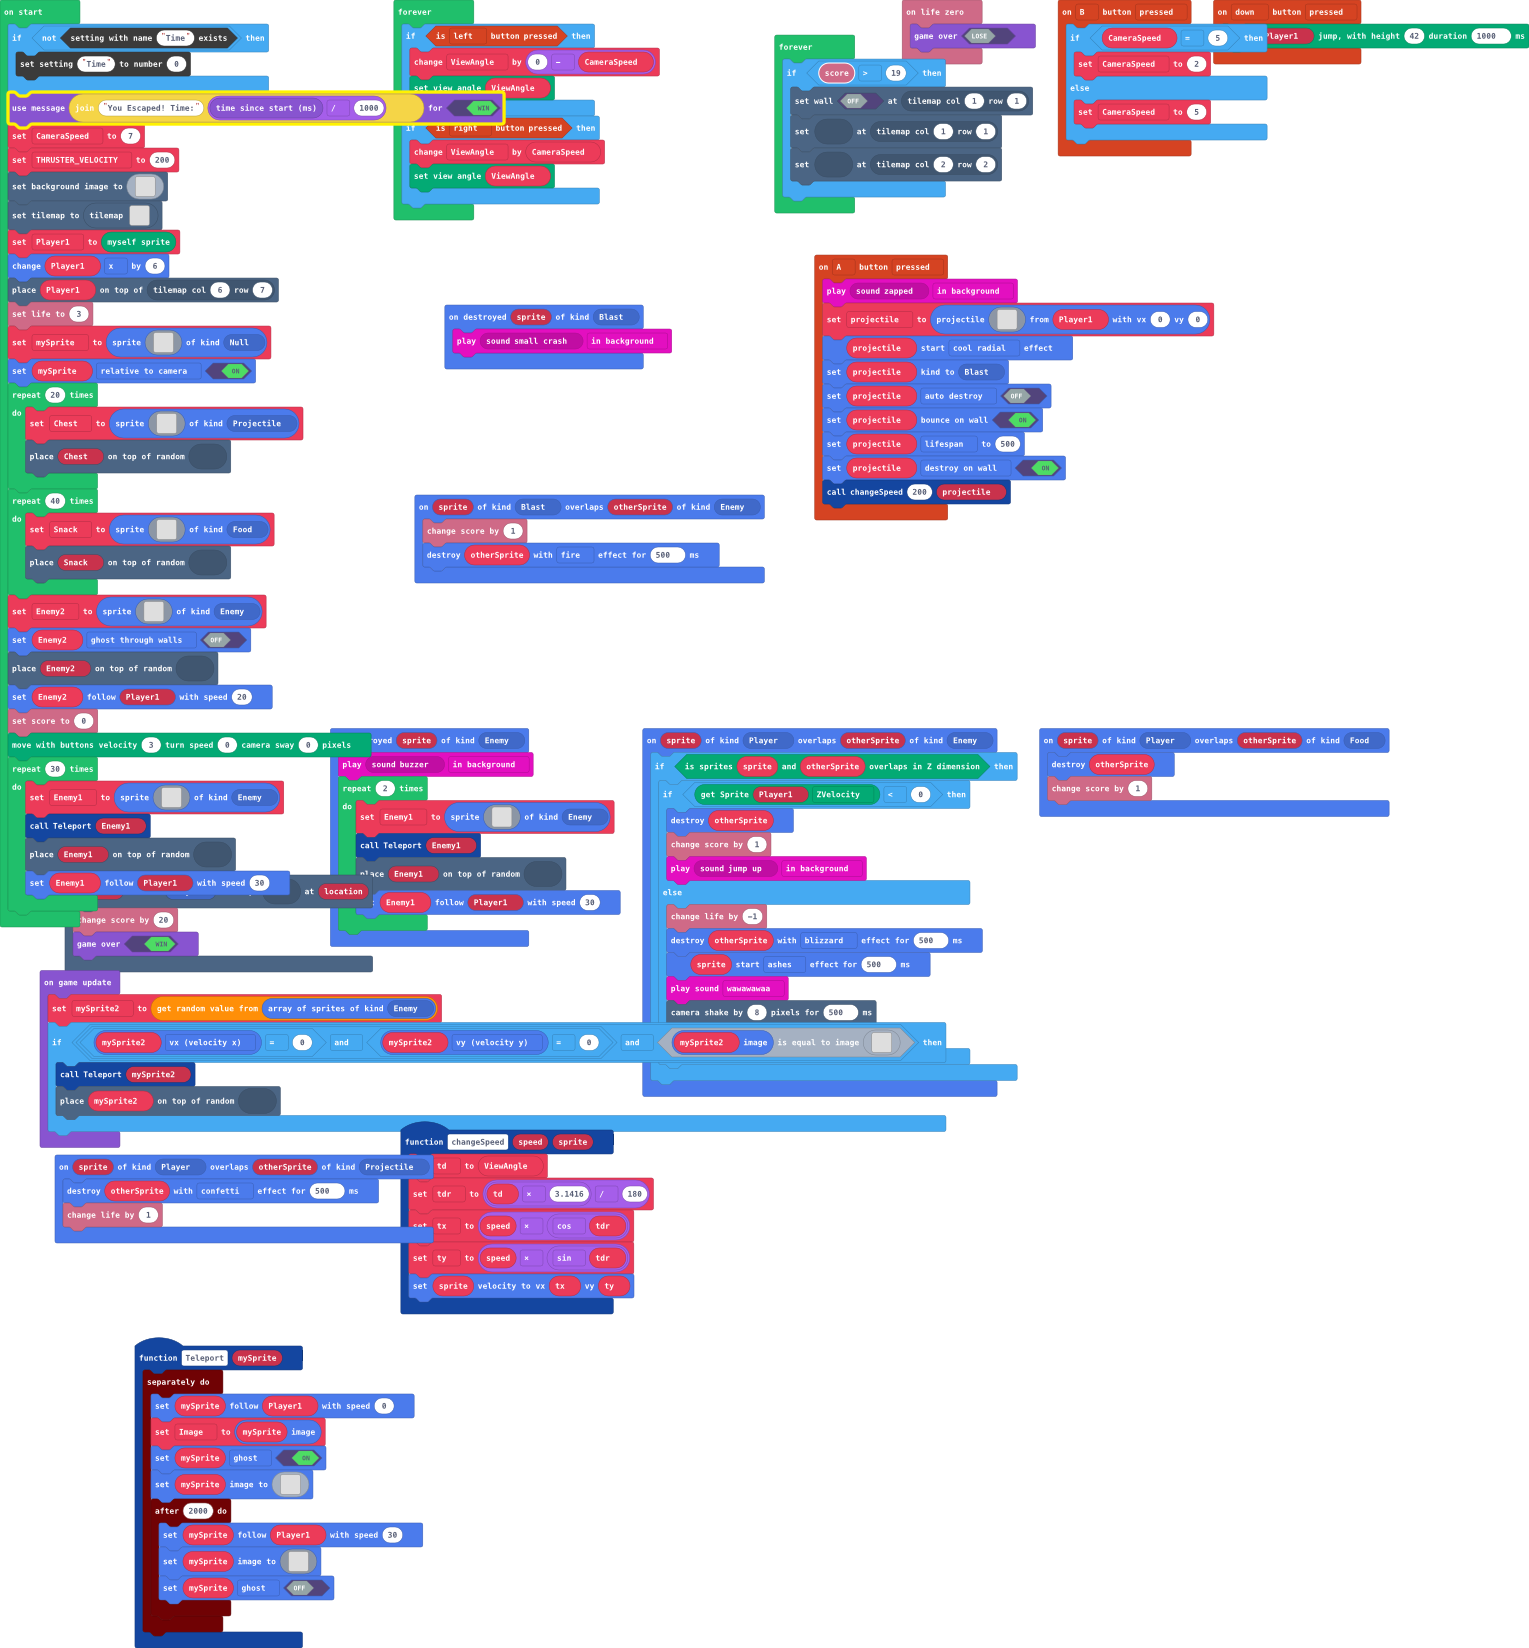
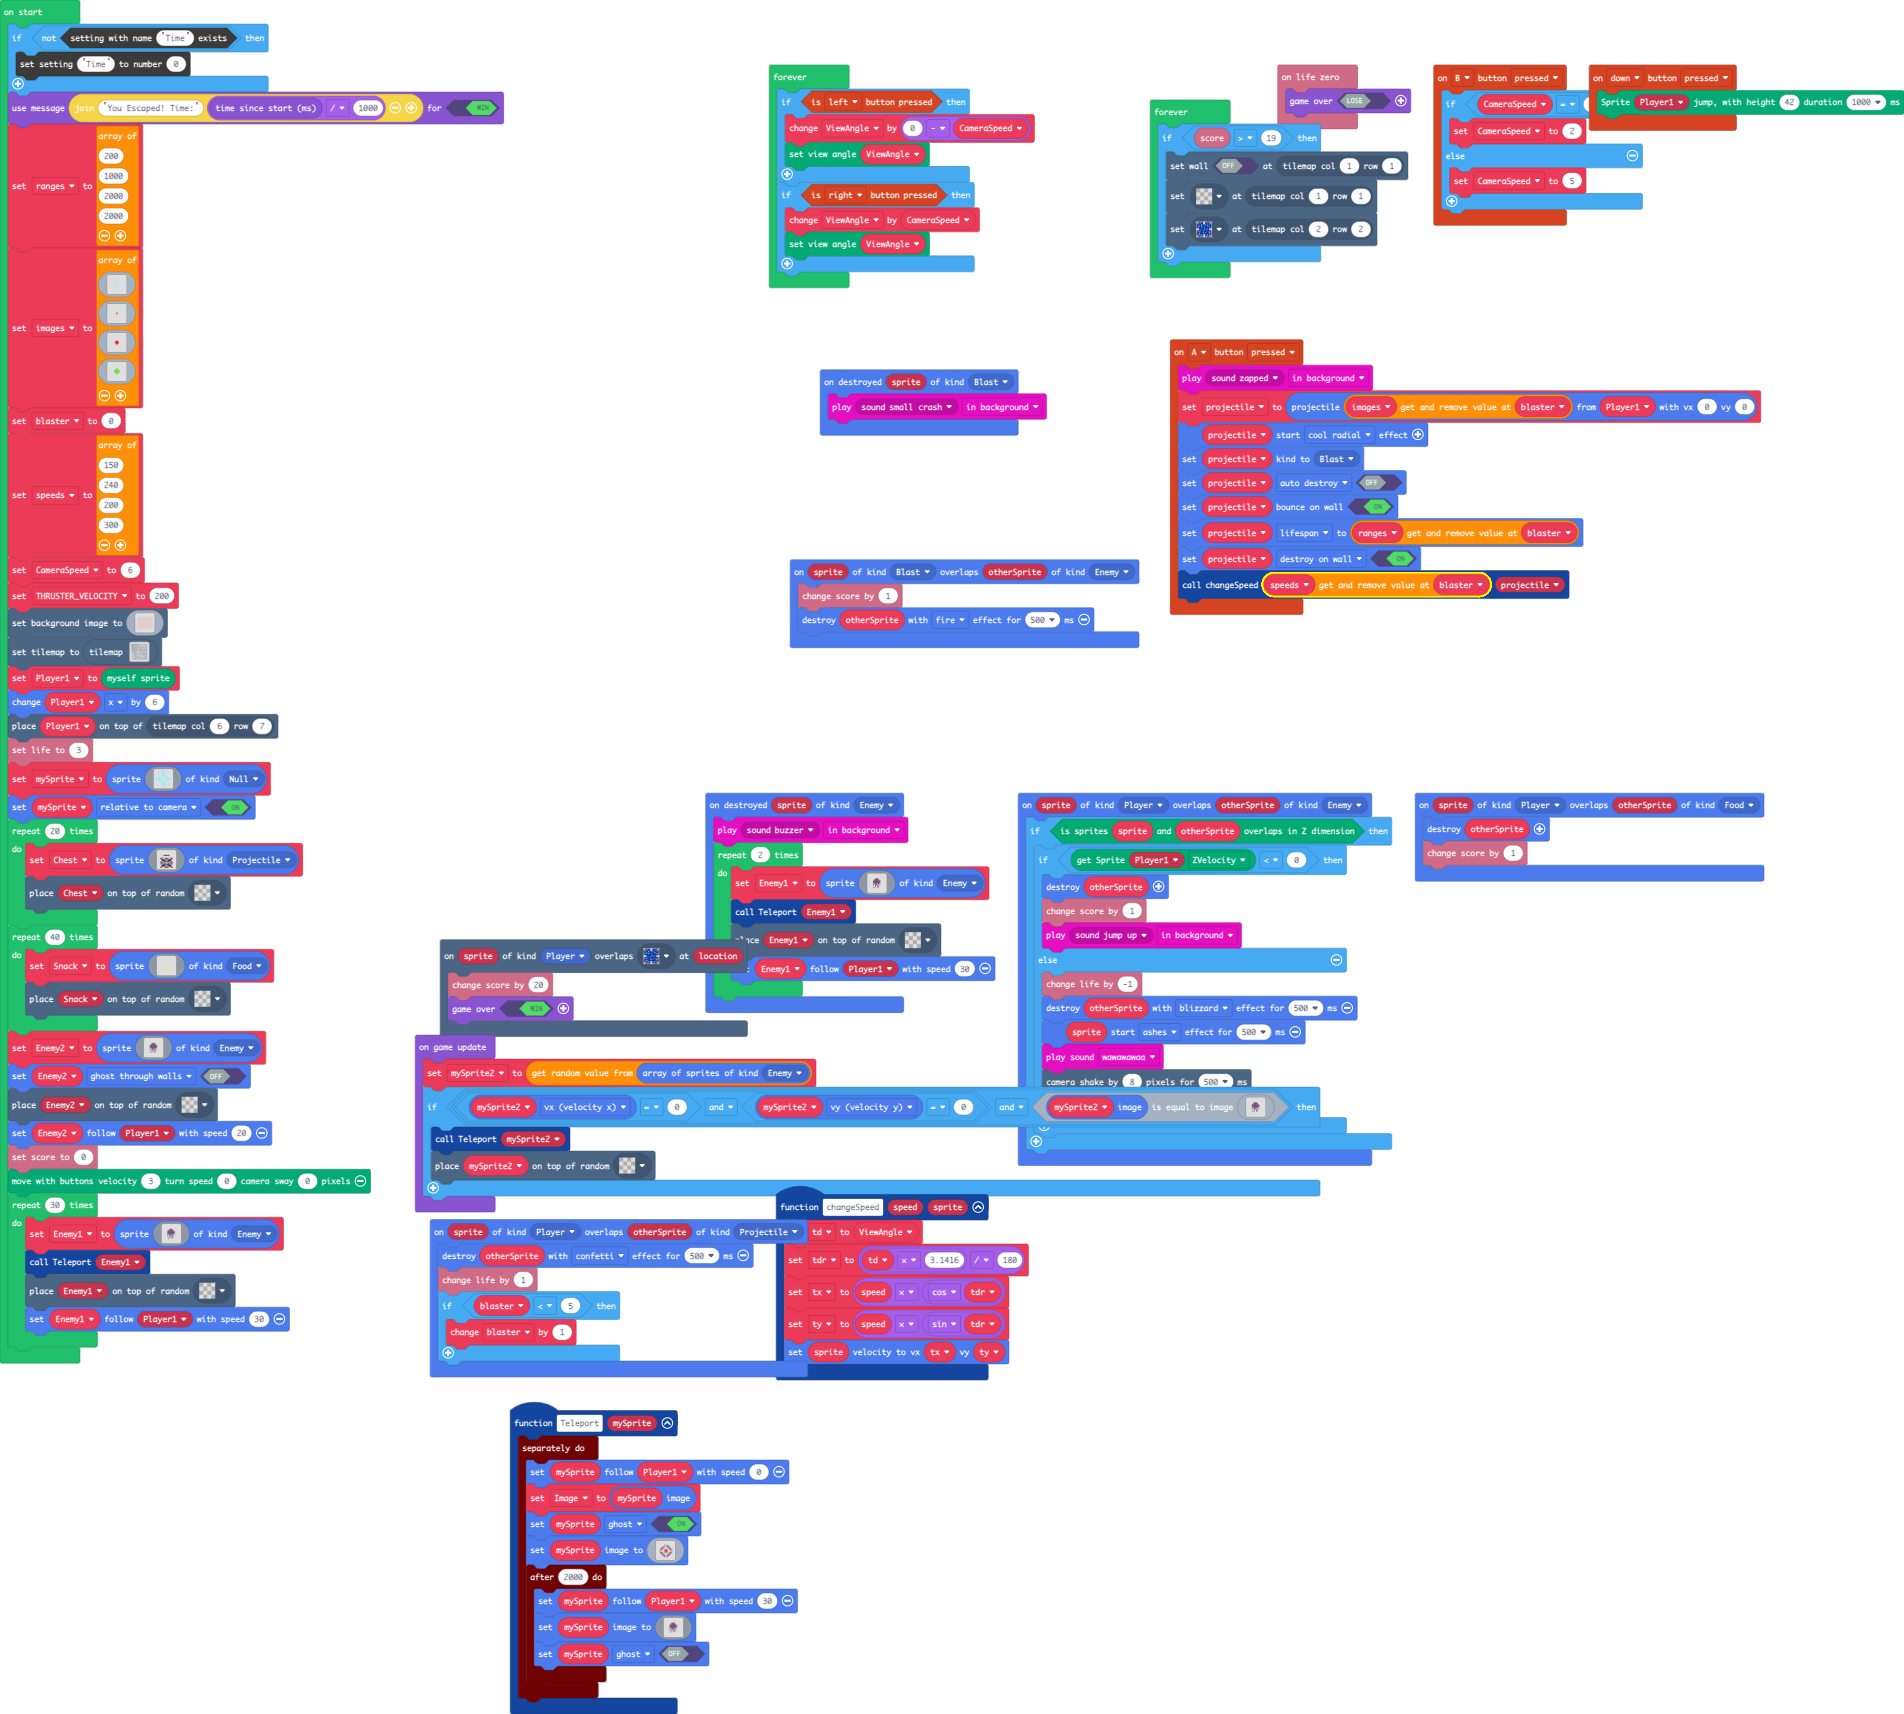
Update pxt.json, main.blocks, main.ts

diff --git a/main.ts b/main.ts
@@ -2,7 +2,82 @@ namespace SpriteKind {
     export const Blast = SpriteKind.create()
     export const Bomb = SpriteKind.create()
     export const Null = SpriteKind.create()
-}
+} 
+let images2: Image[] = []
+images2 = [
+    img`
+    . . . . . . . . . . . . . . . . 
+    . . . . . . . . . . . . . . . . 
+    . . . . . . . . . . . . . . . . 
+    . . . . . . . . . . . . . . . . 
+    . . . . . . . . . . . . . . . . 
+    . . . . . . . . . . . . . . . . 
+    . . . . . . . . . . . . . . . . 
+    . . . . . . . 9 9 . . . . . . . 
+    . . . . . . . 9 9 . . . . . . . 
+    . . . . . . . . . . . . . . . . 
+    . . . . . . . . . . . . . . . . 
+    . . . . . . . . . . . . . . . . 
+    . . . . . . . . . . . . . . . . 
+    . . . . . . . . . . . . . . . . 
+    . . . . . . . . . . . . . . . . 
+    . . . . . . . . . . . . . . . . 
+    `,
+    img`
+    . . . . . . . . . . . . . . . . 
+    . . . . . . . . . . . . . . . . 
+    . . . . . . . . . . . . . . . . 
+    . . . . . . . . . . . . . . . . 
+    . . . . . . . . . . . . . . . . 
+    . . . . . . . . . . . . . . . . 
+    . . . . . . . . . . . . . . . . 
+    . . . . . . . 4 4 . . . . . . . 
+    . . . . . . . 4 4 . . . . . . . 
+    . . . . . . . . . . . . . . . . 
+    . . . . . . . . . . . . . . . . 
+    . . . . . . . . . . . . . . . . 
+    . . . . . . . . . . . . . . . . 
+    . . . . . . . . . . . . . . . . 
+    . . . . . . . . . . . . . . . . 
+    . . . . . . . . . . . . . . . . 
+    `,
+    img`
+    . . . . . . . . . . . . . . . . 
+    . . . . . . . . . . . . . . . . 
+    . . . . . . . . . . . . . . . . 
+    . . . . . . . . . . . . . . . . 
+    . . . . . . . . . . . . . . . . 
+    . . . . . . . . . . . . . . . . 
+    . . . . . . . 2 2 . . . . . . . 
+    . . . . . . 2 2 2 2 . . . . . . 
+    . . . . . . 2 2 2 2 . . . . . . 
+    . . . . . . . 2 2 . . . . . . . 
+    . . . . . . . . . . . . . . . . 
+    . . . . . . . . . . . . . . . . 
+    . . . . . . . . . . . . . . . . 
+    . . . . . . . . . . . . . . . . 
+    . . . . . . . . . . . . . . . . 
+    . . . . . . . . . . . . . . . . 
+    `,
+    img`
+    . . . . . . . . . . . . . . . . 
+    . . . . . . . . . . . . . . . . 
+    . . . . . . . . . . . . . . . . 
+    . . . . . . . . . . . . . . . . 
+    . . . . . . . . . . . . . . . . 
+    . . . . . . . 7 7 . . . . . . . 
+    . . . . . . 7 7 7 7 . . . . . . 
+    . . . . . 7 7 7 7 7 7 . . . . . 
+    . . . . . 7 7 7 7 7 7 . . . . . 
+    . . . . . . 7 7 7 7 . . . . . . 
+    . . . . . . . 7 7 . . . . . . . 
+    . . . . . . . . . . . . . . . . 
+    . . . . . . . . . . . . . . . . 
+    . . . . . . . . . . . . . . . . 
+    . . . . . . . . . . . . . . . . 
+    . . . . . . . . . . . . . . . . 
+    `
+]
 scene.onOverlapTile(SpriteKind.Player, assets.tile`myTile0`, function (sprite, location) {
     info.changeScoreBy(20)
     game.over(true)
@@ -19,32 +94,18 @@ sprites.onOverlap(SpriteKind.Blast, SpriteKind.Enemy, function (sprite, otherSpr
     sprites.destroy(otherSprite, effects.fire, 500)
 })
 controller.A.onEvent(ControllerButtonEvent.Pressed, function () {
+    if (blaster >3){
+        blaster=3
+    }
     music.play(music.melodyPlayable(music.zapped), music.PlaybackMode.InBackground)
-    projectile = sprites.createProjectileFromSprite(img`
-        . . . . . . . . . . . . . . . . 
-        . . . . . . . . . . . . . . . . 
-        . . . . . . . . . . . . . . . . 
-        . . . . . . . . . . . . . . . . 
-        . . . . . . . . . . . . . . . . 
-        . . . . . . . . . . . . . . . . 
-        . . . . . . . 9 9 . . . . . . . 
-        . . . . . . 9 9 9 9 . . . . . . 
-        . . . . . . 9 9 9 9 . . . . . . 
-        . . . . . . . 9 9 . . . . . . . 
-        . . . . . . . . . . . . . . . . 
-        . . . . . . . . . . . . . . . . 
-        . . . . . . . . . . . . . . . . 
-        . . . . . . . . . . . . . . . . 
-        . . . . . . . . . . . . . . . . 
-        . . . . . . . . . . . . . . . . 
-        `, Player1, 0, 0)
+    projectile = sprites.createProjectileFromSprite(images2[blaster], Player1, 0, 0)
     projectile.startEffect(effects.coolRadial)
     projectile.setKind(SpriteKind.Blast)
     projectile.setFlag(SpriteFlag.AutoDestroy, false)
     projectile.setBounceOnWall(true)
-    projectile.lifespan = 500
+    projectile.lifespan = ranges.removeAt(blaster)
     projectile.setFlag(SpriteFlag.DestroyOnWall, true)
-    changeSpeed(200, projectile)
+    changeSpeed(speeds.removeAt(blaster)+100, projectile)
 })
 sprites.onDestroyed(SpriteKind.Blast, function (sprite) {
     music.play(music.melodyPlayable(music.smallCrash), music.PlaybackMode.InBackground)
@@ -52,6 +113,9 @@ sprites.onDestroyed(SpriteKind.Blast, function (sprite) {
 sprites.onOverlap(SpriteKind.Player, SpriteKind.Projectile, function (sprite, otherSprite) {
     otherSprite.destroy(effects.confetti, 500)
     info.changeLifeBy(1)
+    if (blaster < 4) {
+        blaster += 1
+    }
 })
 function changeSpeed (speed: number, sprite: Sprite) {
     td = ViewAngle
@@ -188,11 +252,29 @@ let Snack: Sprite = null
 let Chest: Sprite = null
 let Player1: Sprite = null
 let CameraSpeed = 0
+let speeds: number[] = []
+let blaster = 0
+
+let ranges: number[] = []
 if (!(blockSettings.exists("Time"))) {
     blockSettings.writeNumber("Time", 0)
 }
 game.setGameOverMessage(true, "You Escaped! Time:" + game.runtime() / 1000)
-CameraSpeed = 7
+ranges = [
+200,
+1000,
+2000,
+2000
+]
+
+blaster = 0
+speeds = [
+150,
+240,
+200,
+300
+]
+CameraSpeed = 6
 let THRUSTER_VELOCITY = 200
 scene.setBackgroundImage(img`
     dddddddddddddddddddddddddddddddddddddddddddddddddddddddddddddddddddddddddddddddddddddddddddddddddddddddddddddddddddddddddddddddddddddddddddddddddddddddddddddddd
